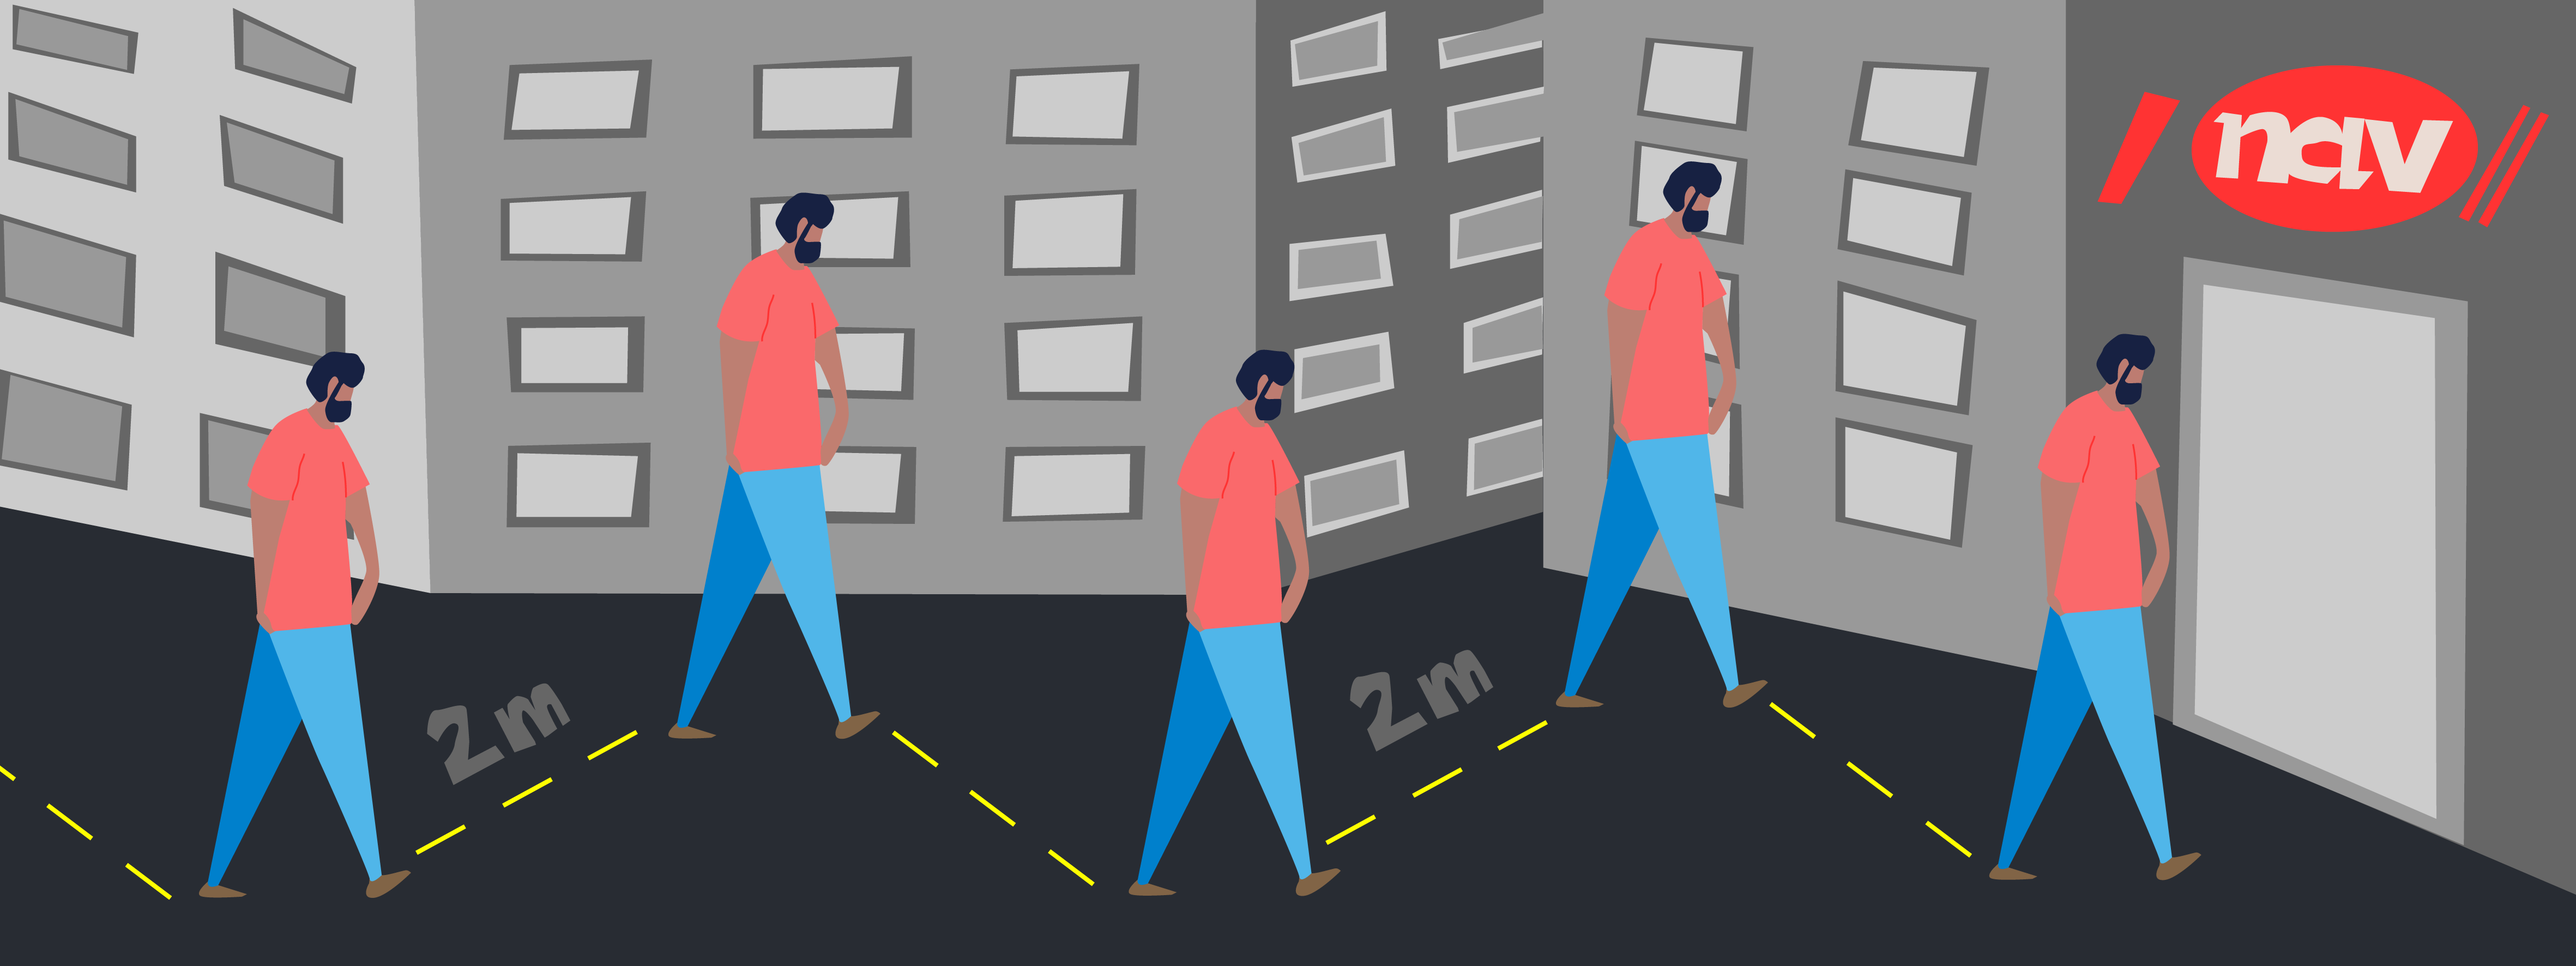
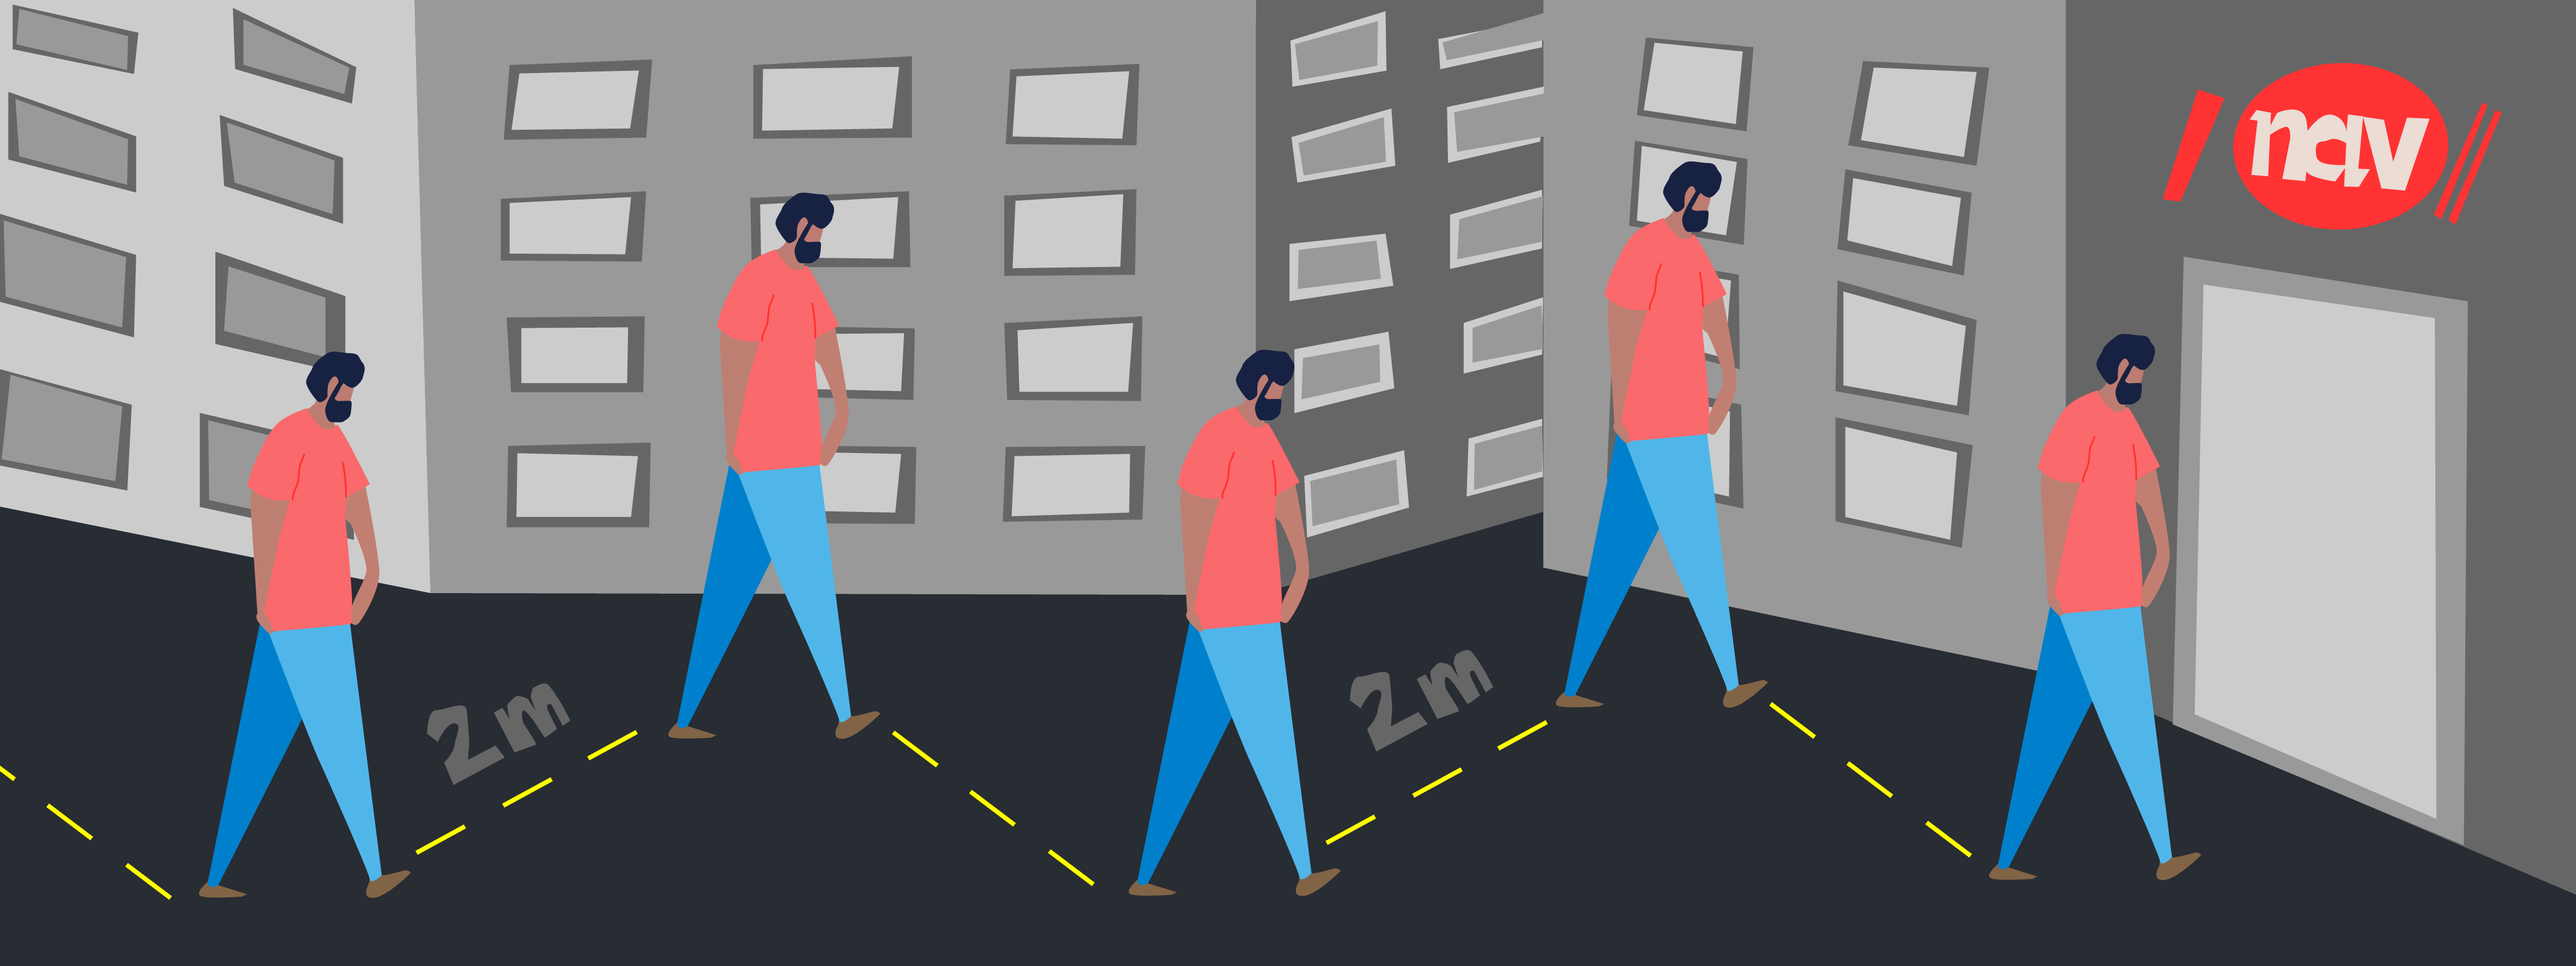
Lagt til semantiske tagger og media screen

Changed region(s): [[0.8089, 0.0621, 0.9956, 0.2483]]

diff --git a/src/App.css b/src/App.css
@@ -1,20 +1,6 @@
 .App {
-  text-align: center;
-}
-
-.Nav {
-  height: 40vmin;
-  pointer-events: none;
-}
-
-@media (prefers-reduced-motion: no-preference) {
-  .App-logo {
-    animation: App-logo-spin infinite 20s linear;
-  }
-}
-
-.App-header {
   background-color: #282c34;
+  width: 100%;
   min-height: 100vh;
   display: flex;
   flex-direction: column;
@@ -24,26 +10,14 @@
   color: white;
 }
 
-.App-link {
-  color: #61dafb;
-}
-
-@keyframes App-logo-spin {
-  from {
-    transform: rotate(0deg);
-  }
-  to {
-    transform: rotate(360deg);
-  }
-}
 
 h1 {
   display: block;
   font-size: 3em;
   margin-top: 0.67em;
   margin-bottom: 0.67em;
-  margin-left: 10%;
-  margin-right: 10%;
+  margin-left: 25%;
+  margin-right: 25%;
   font-weight: bold;
 }
 
@@ -52,18 +26,62 @@ h2 {
   font-size: 1.2em;
   margin-top: 0.83em;
   margin-bottom: 0.83em;
-  margin-left: 15%;
-  margin-right: 15%;
+  margin-left: 25%;
+  margin-right: 25%;
   font-weight: normal;
   font-style: italic;
 }
 
 
 
-.BrodTekst {
-  font-size: small;
+.Brodtekst {
+  font-size: 0.6em;
   margin-left: 25%;
   margin-right: 25%;
   text-align: left;
   width: 50%; 
+}
+
+.Chart {
+  font-size: 1em;
+  margin-left: 25%;
+  margin-right: 25%;
+  text-align: left;
+  width: 50%; 
+}
+
+
+.Nav {
+max-width: 100%;
+max-height: 100%;
+}
+
+footer {
+  font-size: small;
+}
+
+@media screen and (max-width: 600px) {
+  .Chart {
+    font-size: 0.6em;
+  }
+}
+
+@media screen and (max-width: 600px) {
+  h1 {
+    font-size: 2em;
+  }
+}
+
+@media screen and (max-width: 600px) {
+  h2 {
+    font-size: 1em;
+  }
+}
+
+@media screen and (max-width: 600px) {
+  h1, h2, .Chart, .Brodtekst {
+    margin-left: 10%;
+    margin-right: 10%;
+    width: 80%;
+  }
 }

diff --git a/src/App.js b/src/App.js
@@ -1,32 +1,43 @@
 import React from 'react';
 import './App.css';
 import nav from './nav.png';
-
 import ChartSample from './ChartSample';
+
 function App() {
   return (
     <div className="App">
       <header className="App-header">
+      <img src={nav} className="Nav" alt="nav illustrasjon" />
         <h1>
         11.000 nye søknader om dagpenger
         </h1>
+        </header>
+
+        <article>
         <h2>
         I påskens siste del fikk Nav 11.000 nye søknader om dagpenger. Hittil i år er tallet på søknader 416.600.
-        <hr></hr></h2>
+        </h2>
 
-        <img src={nav} className="Nav" alt="nav illustrasjon" />
-
-        <div className="BrodTekst"> <p>De nye søknadene fordeler seg på 2.050 ordinære søknader og 8.950 søknader på grunn av permittering, opplyser Nav.
+        <section className="Brodtekst"> <p>De nye søknadene fordeler seg på 2.050 ordinære søknader og 8.950 søknader på grunn av permittering, opplyser Nav.
           Siden torsdag 12. mars – dagen mange av de mest omfattende koronatiltakene ble innført – har det kommet inn totalt 377.700 
           søknader om dagpenger, hvorav 337.300 gjelder dagpenger ved permittering.
 
-          <br></br>
-          (©NTB)
-        </p>
-      </div>
+          <br></br> <br></br>
 
+        </p>
+      </section>
+
+      <section className="Chart">
         <ChartSample />
-      </header>
+      </section>
+
+      </article>
+      <footer>
+         <br></br><br></br>
+         <hr></hr> 
+         <p>© Karoline Ådnanes 2020 </p>
+         <br></br><br></br>
+      </footer>
     </div>
   );
 }

diff --git a/src/ChartSample.js b/src/ChartSample.js
@@ -53,6 +53,7 @@ function ChartSample() {
           }}
         >
             <Chart data={data} series={series} axes={axes} tooltip dark />
+
         </div>
       )
 }
